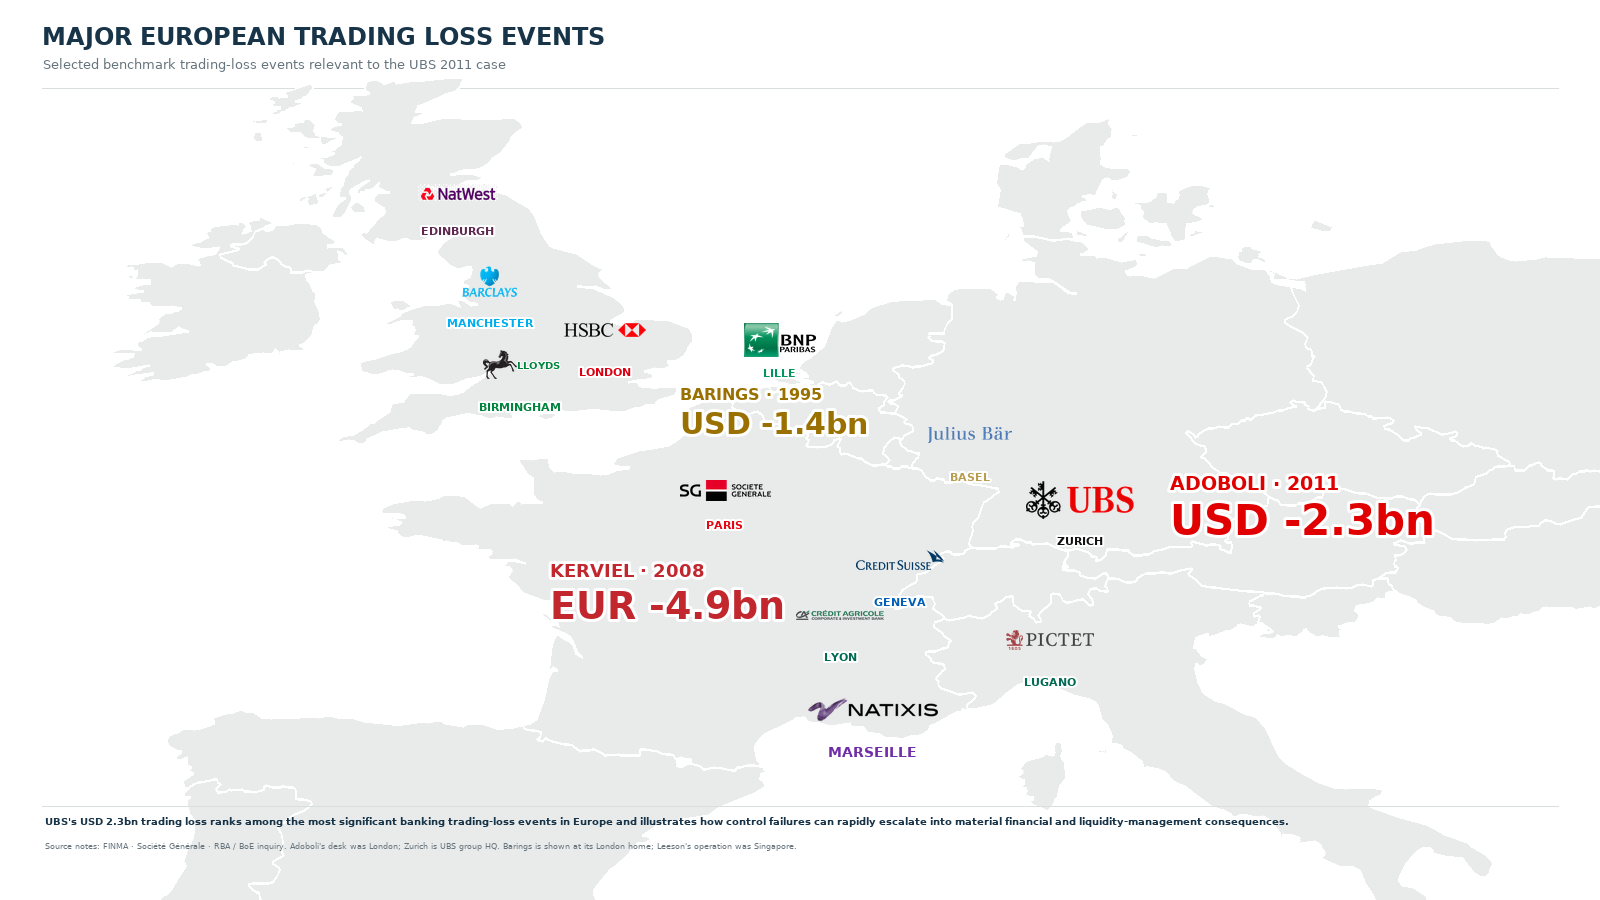
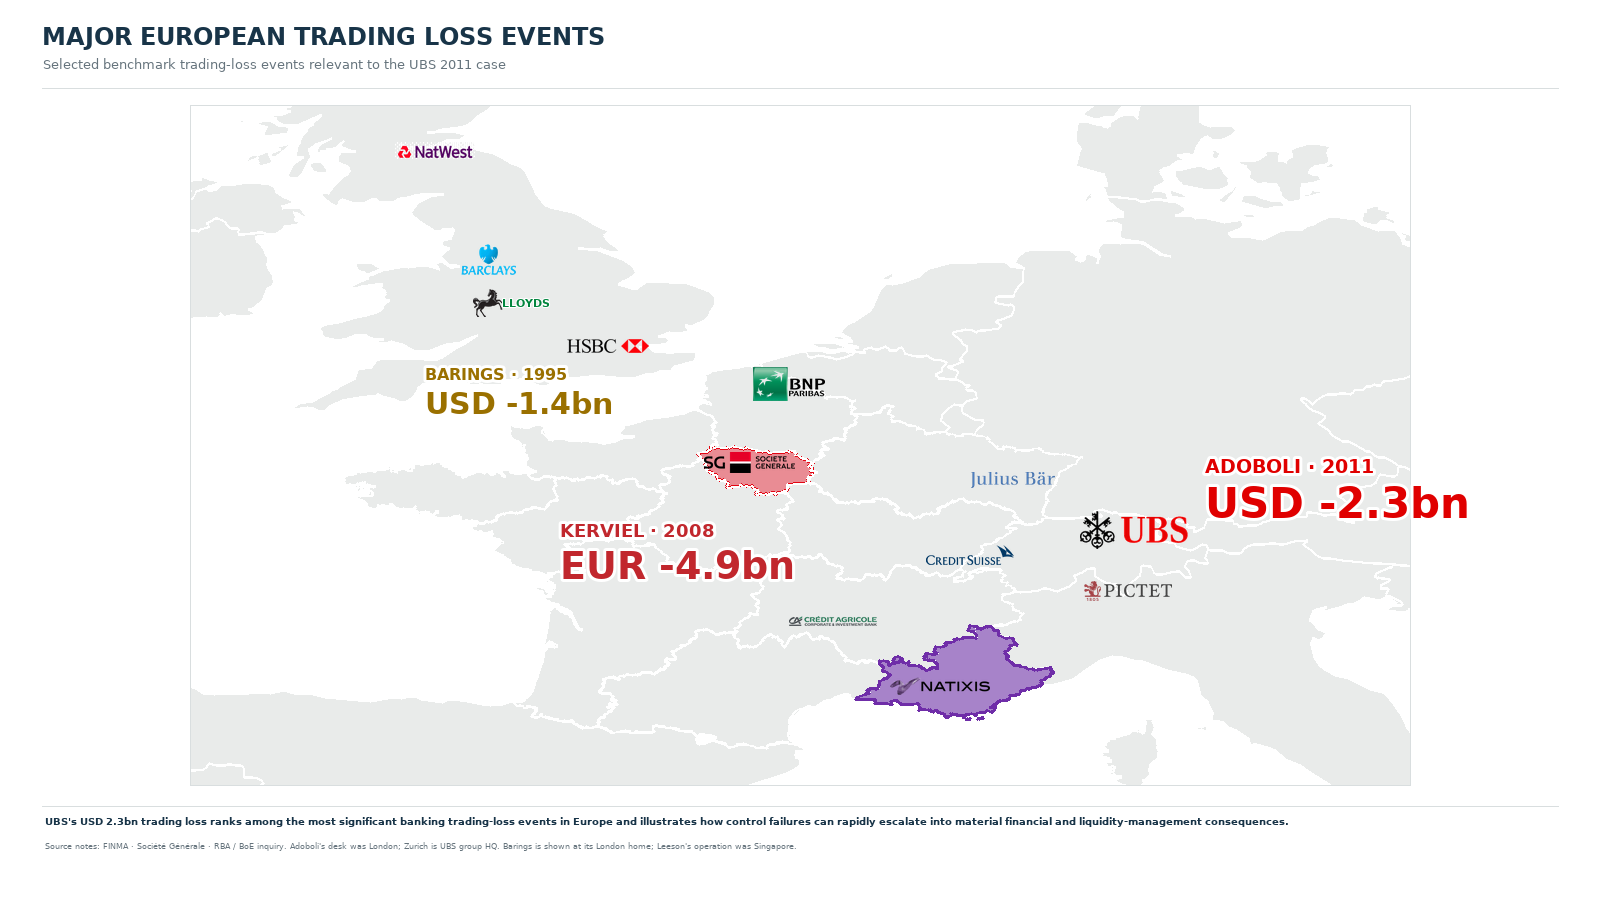
Zoom map and highlight French regions

diff --git a/documents/build_ubs_event_context_map.py b/documents/build_ubs_event_context_map.py
@@ -61,11 +61,13 @@ d = ImageDraw.Draw(im)
 text(d, (42, 22), 'MAJOR EUROPEAN TRADING LOSS EVENTS', 24, INK, bold=True)
 text(d, (43, 56), 'Selected benchmark trading-loss events relevant to the UBS 2011 case', 13, MUTED)
 d.line((42, 88, 1558, 88), fill=GRID, width=1)
+page_under_map = im.copy()
 
 # Light-grey Europe base, with discreet national borders.
-mx, my, mw, mh = 35, 105, 1530, 680
-lon0, lon1 = -12.0, 20.0
-lat0, lat1 = 42.0, 58.0
+# Zoomed regional view centred on France, with the UK and Switzerland retained for context.
+mx, my, mw, mh = 190, 105, 1220, 680
+lon0, lon1 = -7.5, 14.0
+lat0, lat1 = 41.5, 57.0
 
 def xy(lon, lat):
     return (mx + (lon - lon0) / (lon1 - lon0) * mw,
@@ -90,6 +92,46 @@ def draw_geometry(geometry):
 for feature in geo['features']:
     draw_geometry(feature['geometry'])
 
+# France remains grey except for the two requested administrative areas.
+regions_path = ASSETS / 'france-regions.geojson'
+with regions_path.open(encoding='utf-8') as handle:
+    regions = json.load(handle)
+region_style = {
+    'Île-de-France': ('#E98C94', '#E30613'),
+    'Provence-Alpes-Côte d\'Azur': ('#A783C9', '#6F2DA8'),
+}
+region_layer = Image.new('RGBA', (W, H), (0, 0, 0, 0))
+rd = ImageDraw.Draw(region_layer)
+for feature in regions['features']:
+    geometry = feature['geometry']
+    polygons = geometry['coordinates'] if geometry['type'] == 'MultiPolygon' else [geometry['coordinates']]
+    name = feature['properties']['nom']
+    fill = region_style.get(name, (LAND, '#FFFFFF'))[0]
+    for polygon in polygons:
+        ring = polygon[0]
+        points = [xy(lon, lat) for lon, lat in ring]
+        rd.polygon(points, fill=fill)
+im.alpha_composite(region_layer)
+# Keep boundaries legible and give the two highlighted territories a clear coloured edge.
+d = ImageDraw.Draw(im)
+for feature in regions['features']:
+    geometry = feature['geometry']
+    polygons = geometry['coordinates'] if geometry['type'] == 'MultiPolygon' else [geometry['coordinates']]
+    name = feature['properties']['nom']
+    outline = region_style.get(name, (LAND, '#FFFFFF'))[1]
+    width = 3 if name in region_style else 2
+    for polygon in polygons:
+        ring = polygon[0]
+        points = [xy(lon, lat) for lon, lat in ring]
+        d.line(points + [points[0]], fill=outline, width=width, joint='curve')
+
+# Clip geographic layers to the zoom window so no land spills into the title or footer.
+map_crop = im.crop((mx, my, mx + mw, my + mh))
+im = page_under_map.copy()
+im.alpha_composite(map_crop, (mx, my))
+d = ImageDraw.Draw(im)
+d.rectangle((mx, my, mx + mw, my + mh), outline=GRID, width=1)
+
 # Bank logos, one per requested city (12 total).
 logos = {
     'HSBC': load_logo('hsbc-logo.png', True),
@@ -106,42 +148,34 @@ logos = {
     'PICTET': load_logo('pictet-logo.png'),
 }
 
-# Logos float directly on the map; city names sit beneath them in bank colours.
-def city_mark(key, city, center, color, logo_size=(78, 28), city_y=None,
-              lloyds=False, city_font_size=11, city_color=None):
+# Bank logos float directly on the map; city-name labels are intentionally omitted.
+def place_bank(key, lon, lat, logo_size, dx=0, dy=0, lloyds=False):
     global d
+    anchor = xy(lon, lat)
+    center = (anchor[0] + dx, anchor[1] + dy)
     if lloyds:
-        paste_logo_floating(im, logos[key], (center[0] - 20, center[1] - 1), (34, 31))
+        paste_logo_floating(im, logos[key], (center[0] - 19, center[1]), (32, 29))
         d = ImageDraw.Draw(im)
-        text(d, (center[0] + 19, center[1]), 'LLOYDS', 10, color, bold=True,
+        text(d, (center[0] + 18, center[1]), 'LLOYDS', 11, '#00843D', bold=True,
              anchor='mm', stroke_width=1)
     else:
         paste_logo_floating(im, logos[key], center, logo_size)
-    d = ImageDraw.Draw(im)
-    label_y = city_y if city_y is not None else center[1] + logo_size[1] // 2 + 13
-    text(d, (center[0], label_y), city.upper(), city_font_size,
-         city_color or color, bold=True, anchor='mm', stroke_width=2)
 
-# UK — coloured city labels sit directly beneath the transparent bank marks.
-city_mark('NATWEST', 'Edinburgh', (458, 192), '#5E2750', (80, 24), 231)
-city_mark('BARCLAYS', 'Manchester', (490, 282), '#00AEEF', (68, 31), 323)
-city_mark('LLOYDS', 'Birmingham', (520, 365), '#00843D', (78, 30), 407, lloyds=True)
-city_mark('HSBC', 'London', (605, 330), '#DB0011', (82, 25), 372)
-
-# France — no logo circles; the city names remain clearly associated below each logo.
-city_mark('BNP', 'Lille', (780, 340), '#00965E', (74, 34), 373)
-city_mark('SG', 'Paris', (725, 490), '#E30613', (91, 32), 525,
-          city_color='#E30613')
-city_mark('CA', 'Lyon', (840, 615), '#006B54', (88, 24), 657)
-city_mark('NATIXIS', 'Marseille', (873, 710), '#003A70', (130, 38), 752,
-          city_font_size=14, city_color='#6F2DA8')
-
-# Switzerland — the four bank wordmarks are shown directly on the map.
-city_mark('CS', 'Geneva', (900, 560), '#005EB8', (88, 25), 602)
-city_mark('JULIUS', 'Basel', (970, 435), '#B89D4F', (84, 25), 477)
-city_mark('UBS', 'Zurich', (1080, 500), '#E00000', (108, 40), 541,
-          city_color='#111111')
-city_mark('PICTET', 'Lugano', (1050, 640), '#006A52', (88, 25), 682)
+# UK
+place_bank('NATWEST', -3.1883, 55.9533, (80, 24))
+place_bank('BARCLAYS', -2.2426, 53.4808, (68, 31))
+place_bank('LLOYDS', -1.8904, 52.4862, (78, 30), lloyds=True)
+place_bank('HSBC', -0.1276, 51.5072, (82, 25))
+# France
+place_bank('BNP', 3.0573, 50.6292, (74, 34))
+place_bank('SG', 2.3522, 48.8566, (91, 32))
+place_bank('CA', 4.8357, 45.7640, (88, 24), dx=-57, dy=23)
+place_bank('NATIXIS', 5.3698, 43.2965, (100, 30), dx=20, dy=-20)
+# Switzerland
+place_bank('CS', 6.1432, 46.2044, (88, 25), dx=6, dy=-24)
+place_bank('JULIUS', 7.59, 47.56, (84, 25), dx=-33, dy=-39)
+place_bank('UBS', 8.5417, 47.3769, (108, 40), dx=34, dy=3)
+place_bank('PICTET', 8.95, 46.0, (88, 25), dx=5, dy=3)
 
 # Event highlights use floating type only, without circles or containers.
 def event_text(x, y, label, amount, color, label_size, amount_size):
@@ -151,11 +185,11 @@ def event_text(x, y, label, amount, color, label_size, amount_size):
     text(d, (x, y + label_size + 5), amount, amount_size, color, bold=True, stroke_width=3)
 
 # Barings 1995 — third in the visual hierarchy, with gold event type near London.
-event_text(680, 385, 'BARINGS · 1995', 'USD -1.4bn', '#9A7000', 16, 30)
+event_text(425, 365, 'BARINGS · 1995', 'USD -1.4bn', '#9A7000', 16, 30)
 # Kerviel 2008 — second-largest red event emphasis beside the Paris / SG marker.
-event_text(550, 560, 'KERVIEL · 2008', 'EUR -4.9bn', '#C1272D', 18, 38)
+event_text(560, 520, 'KERVIEL · 2008', 'EUR -4.9bn', '#C1272D', 18, 38)
 # Adoboli 2011 — largest callout, with the requested UBS-red accent by Zurich.
-event_text(1170, 472, 'ADOBOLI · 2011', 'USD -2.3bn', '#E00000', 19, 42)
+event_text(1205, 455, 'ADOBOLI · 2011', 'USD -2.3bn', '#E00000', 19, 42)
 
 # Minimal footnote retains the factual distinction between Zurich HQ and the London desk.
 d.line((42, 806, 1558, 806), fill=GRID, width=1)

diff --git a/documents/ubs-event-context-map-sources.md b/documents/ubs-event-context-map-sources.md
@@ -2,7 +2,7 @@
 
 **Slide:** `ubs-event-context-map.png`
 **Generator:** `build_ubs_event_context_map.py`
-**Map geometry:** Natural Earth 1:50m Western Europe country outlines (`assets/natural-earth-50m-western-europe-context.geojson`, public domain).
+**Map geometry:** Natural Earth 1:50m Western Europe country outlines (`assets/natural-earth-50m-western-europe-context.geojson`, public domain) plus French regional boundaries (`assets/france-regions.geojson`).
 
 ## Slide copy
 
@@ -25,24 +25,7 @@ The minus signs on the slide explicitly indicate losses. The amounts are nominal
 
 ## Bank identities and map treatment
 
-The infographic shows the 12 requested logo-and-city pairings, once each:
-
-| City | Bank | City-label colour |
-|---|---|---|
-| London | HSBC | `#DB0011` |
-| Manchester | Barclays | `#00AEEF` |
-| Birmingham | Lloyds | `#00843D` |
-| Edinburgh | NatWest | `#5E2750` |
-| Lille | BNP Paribas | `#00965E` |
-| Paris | Société Générale | `#E30613` (red) |
-| Lyon | Crédit Agricole | `#006B54` |
-| Marseille | Natixis | `#6F2DA8` (violet, as requested) |
-| Zurich | UBS | `#111111` (black) |
-| Geneva | Credit Suisse | `#005EB8` |
-| Basel | Julius Baer | `#B89D4F` |
-| Lugano | Pictet | `#006A52` |
-
-The European land base is light grey with understated borders. Bank wordmarks float directly on the map without circular markers, halos or white logo cards; each city name appears underneath its logo in the associated colour. Natixis is slightly enlarged as a visual example, and **MARSEILLE** is highlighted in violet. The three event highlights remain in the requested hierarchy: largest red UBS/Adoboli callout, second red Kerviel callout, and third gold Barings callout.
+The map retains the 12 requested bank logos at their city locations, but omits every city-name label. The region polygons show **Île-de-France in red** (`#E98C94`, red outline `#E30613`) and **Provence-Alpes-Côte d'Azur, including Marseille, in violet** (`#A783C9`, violet outline `#6F2DA8`); all surrounding countries and French regions remain grey. Bank wordmarks float directly on the map without circular markers, halos or white logo cards. The map is zoomed to keep France, the UK and Switzerland in context. The three event highlights retain their hierarchy: largest red UBS/Adoboli callout, second red Kerviel callout, and third gold Barings callout.
 
 ## Logo asset references
 
